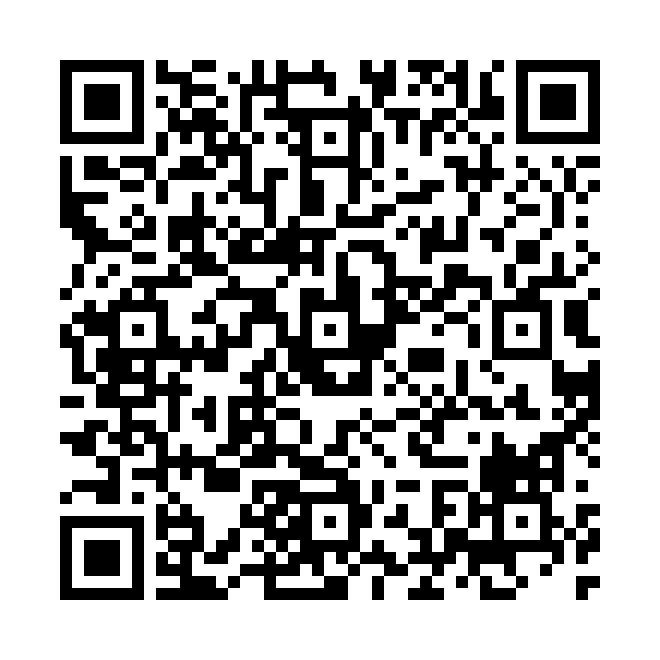
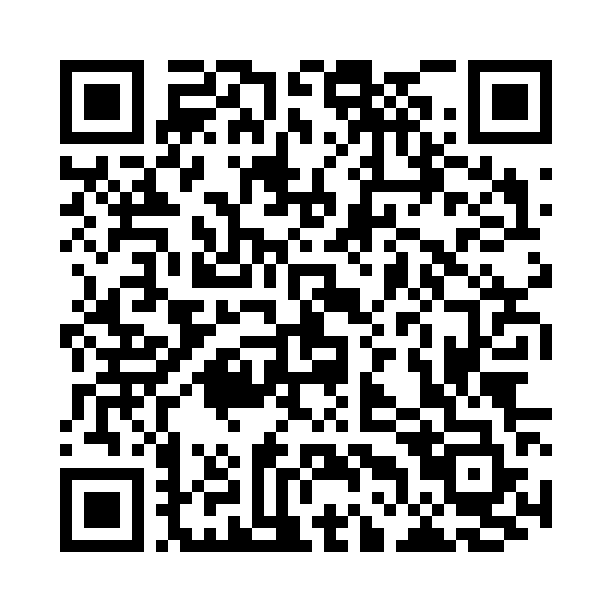
Quadra 1.2.0: Pix to Vulpini
- The README's Pix (QR code, key and copy-and-paste code) now goes to
  Vulpini Contabilidade, key contato@vulpini.com.br, with only the
  required fields.
- Version 1.2.0 with the welcome window and the move to Vulpini.

diff --git a/README.pt-BR.md b/README.pt-BR.md
@@ -93,15 +93,15 @@ Veja o [CONTRIBUTING.md](CONTRIBUTING.md).
 O Quadra é grátis. Se ele te ajuda, você pode apoiar o projeto com qualquer valor. A primeira
 meta é pagar o Developer ID da Apple (US$ 99 por ano), para o macOS parar de bloquear o download.
 
-**Pix:** aponte a câmera do app do banco para o QR code, ou use a chave aleatória
-`8483959a-77da-4767-ba1b-dde7eb4e1bd1`.
+**Pix**, para a Vulpini Contabilidade: aponte a câmera do app do banco para o QR code, ou use a chave
+`contato@vulpini.com.br`.
 
 <img src="docs/images/pix-qr.png" width="200" alt="QR code do Pix para apoiar o Quadra">
 
 Pix copia e cola:
 
 ```
-00020126580014br.gov.bcb.pix01368483959a-77da-4767-ba1b-dde7eb4e1bd15204000053039865802BR5914ALANHRMICHELON6009Sao Paulo62070503***63049B10
+00020126440014br.gov.bcb.pix0122contato@vulpini.com.br5204000053039865802BR5921VULPINI CONTABILIDADE6009SAO PAULO62070503***6304518C
 ```
 
 ## Licença

diff --git a/CHANGELOG.md b/CHANGELOG.md
@@ -1,9 +1,13 @@
 # Changelog
 
-## Unreleased
+## 1.2.0
 
 - A welcome window explains why Quadra needs the Accessibility permission, opens System Settings
   and notices by itself when the permission is granted.
+- Quadra is now published by [Vulpini](https://vulpini.com.br). The project moved to
+  [github.com/vulpini-br/quadra](https://github.com/vulpini-br/quadra), and Homebrew is now
+  `brew install --cask vulpini-br/tap/quadra` (old links keep working).
+- Pix donations now go to Vulpini Contabilidade.
 - `./build.sh --appstore` builds the Mac App Store version: sandboxed, without the update check
   and the donation link. Store texts, screenshots and a privacy policy are in `docs/app-store`
   and `PRIVACY.md`.

diff --git a/README.md b/README.md
@@ -109,8 +109,8 @@ See [CONTRIBUTING.md](CONTRIBUTING.md).
 Quadra is free. If it helps you, you can support it. The first goal is to pay for Apple's
 Developer ID (US$ 99 per year), so macOS stops blocking the download.
 
-**Pix** (Brazil): scan the code with your bank app, or use the key
-`8483959a-77da-4767-ba1b-dde7eb4e1bd1`.
+**Pix** (Brazil), to Vulpini Contabilidade: scan the code with your bank app, or use the key
+`contato@vulpini.com.br`.
 
 <img src="docs/images/pix-qr.png" width="200" alt="Pix QR code to support Quadra">
 
